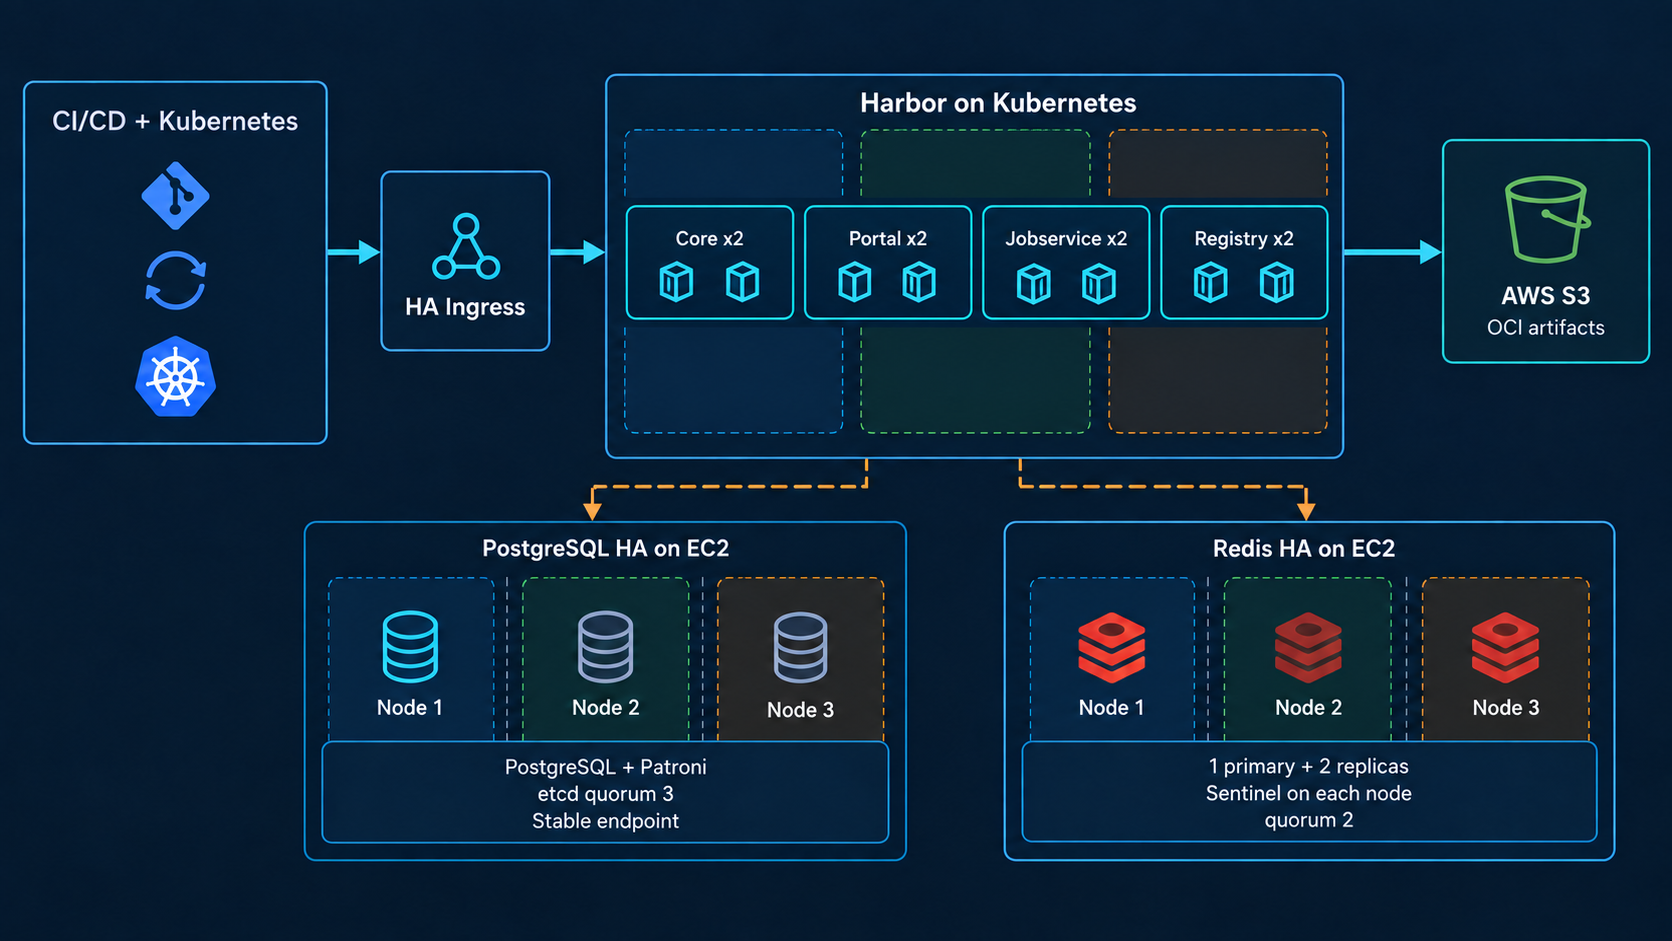
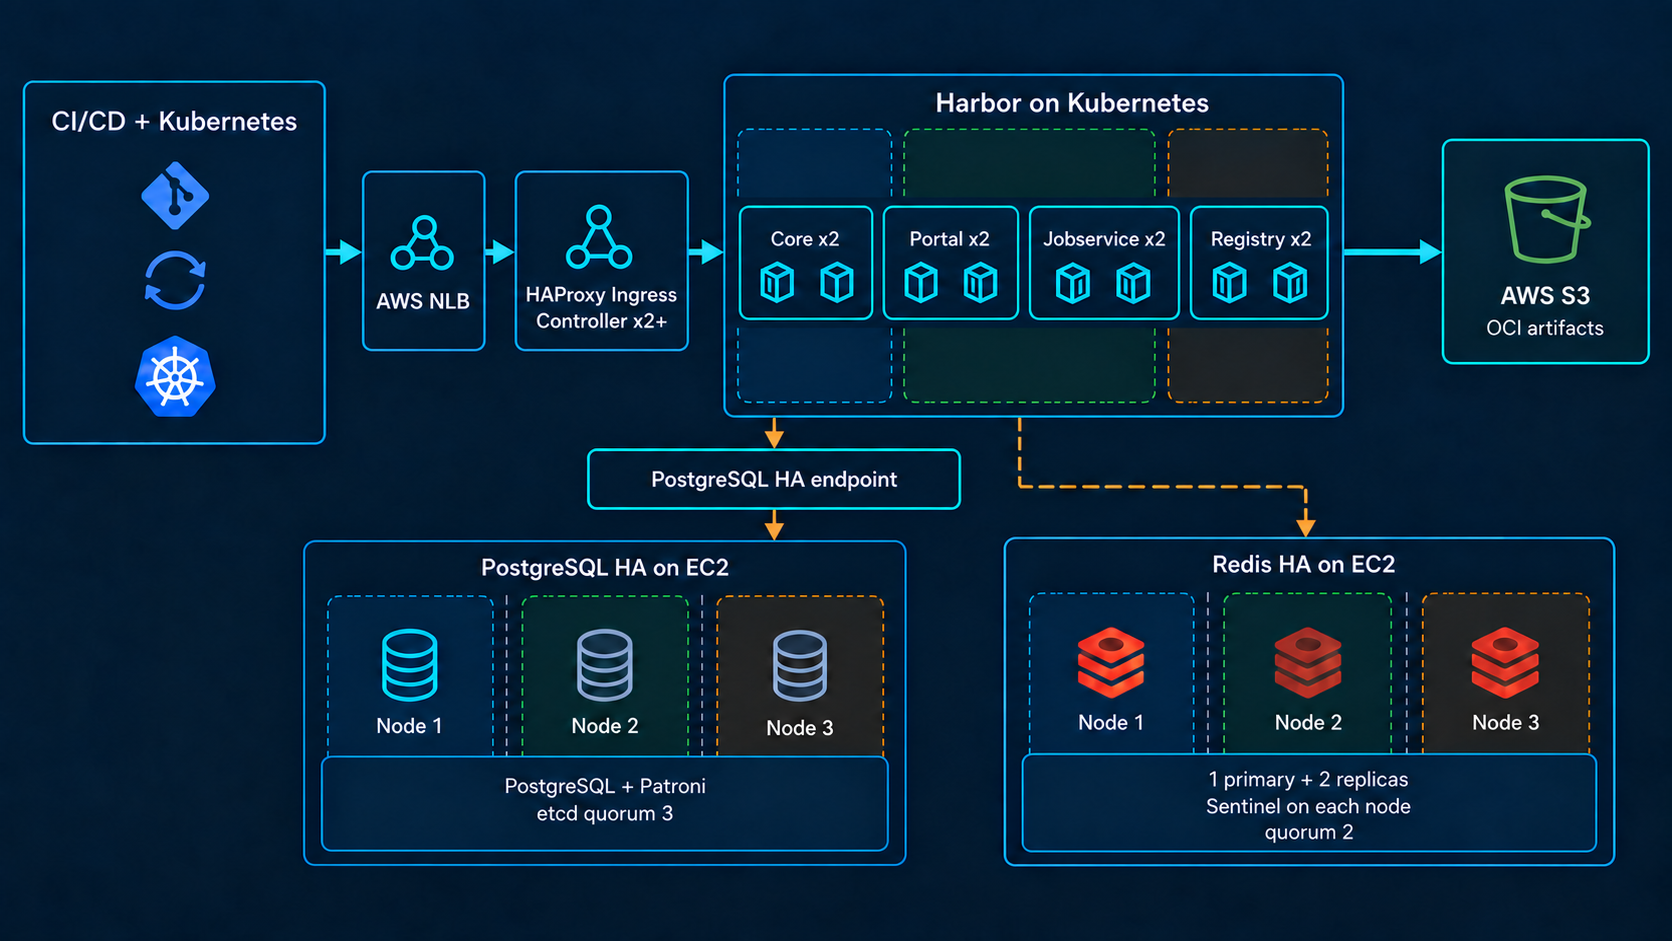
update

diff --git a/_layouts/post.html b/_layouts/post.html
@@ -208,6 +208,17 @@ layout: default
   min-width: 860px;
 }
 
+.article-card table.architecture-comparison-table {
+  min-width: 1120px;
+  table-layout: fixed;
+}
+
+.article-card table.architecture-comparison-table th:first-child,
+.article-card table.architecture-comparison-table td:first-child {
+  width: 150px;
+  font-weight: 650;
+}
+
 .article-card th,
 .article-card td {
   padding: 0.65rem 0.75rem;
